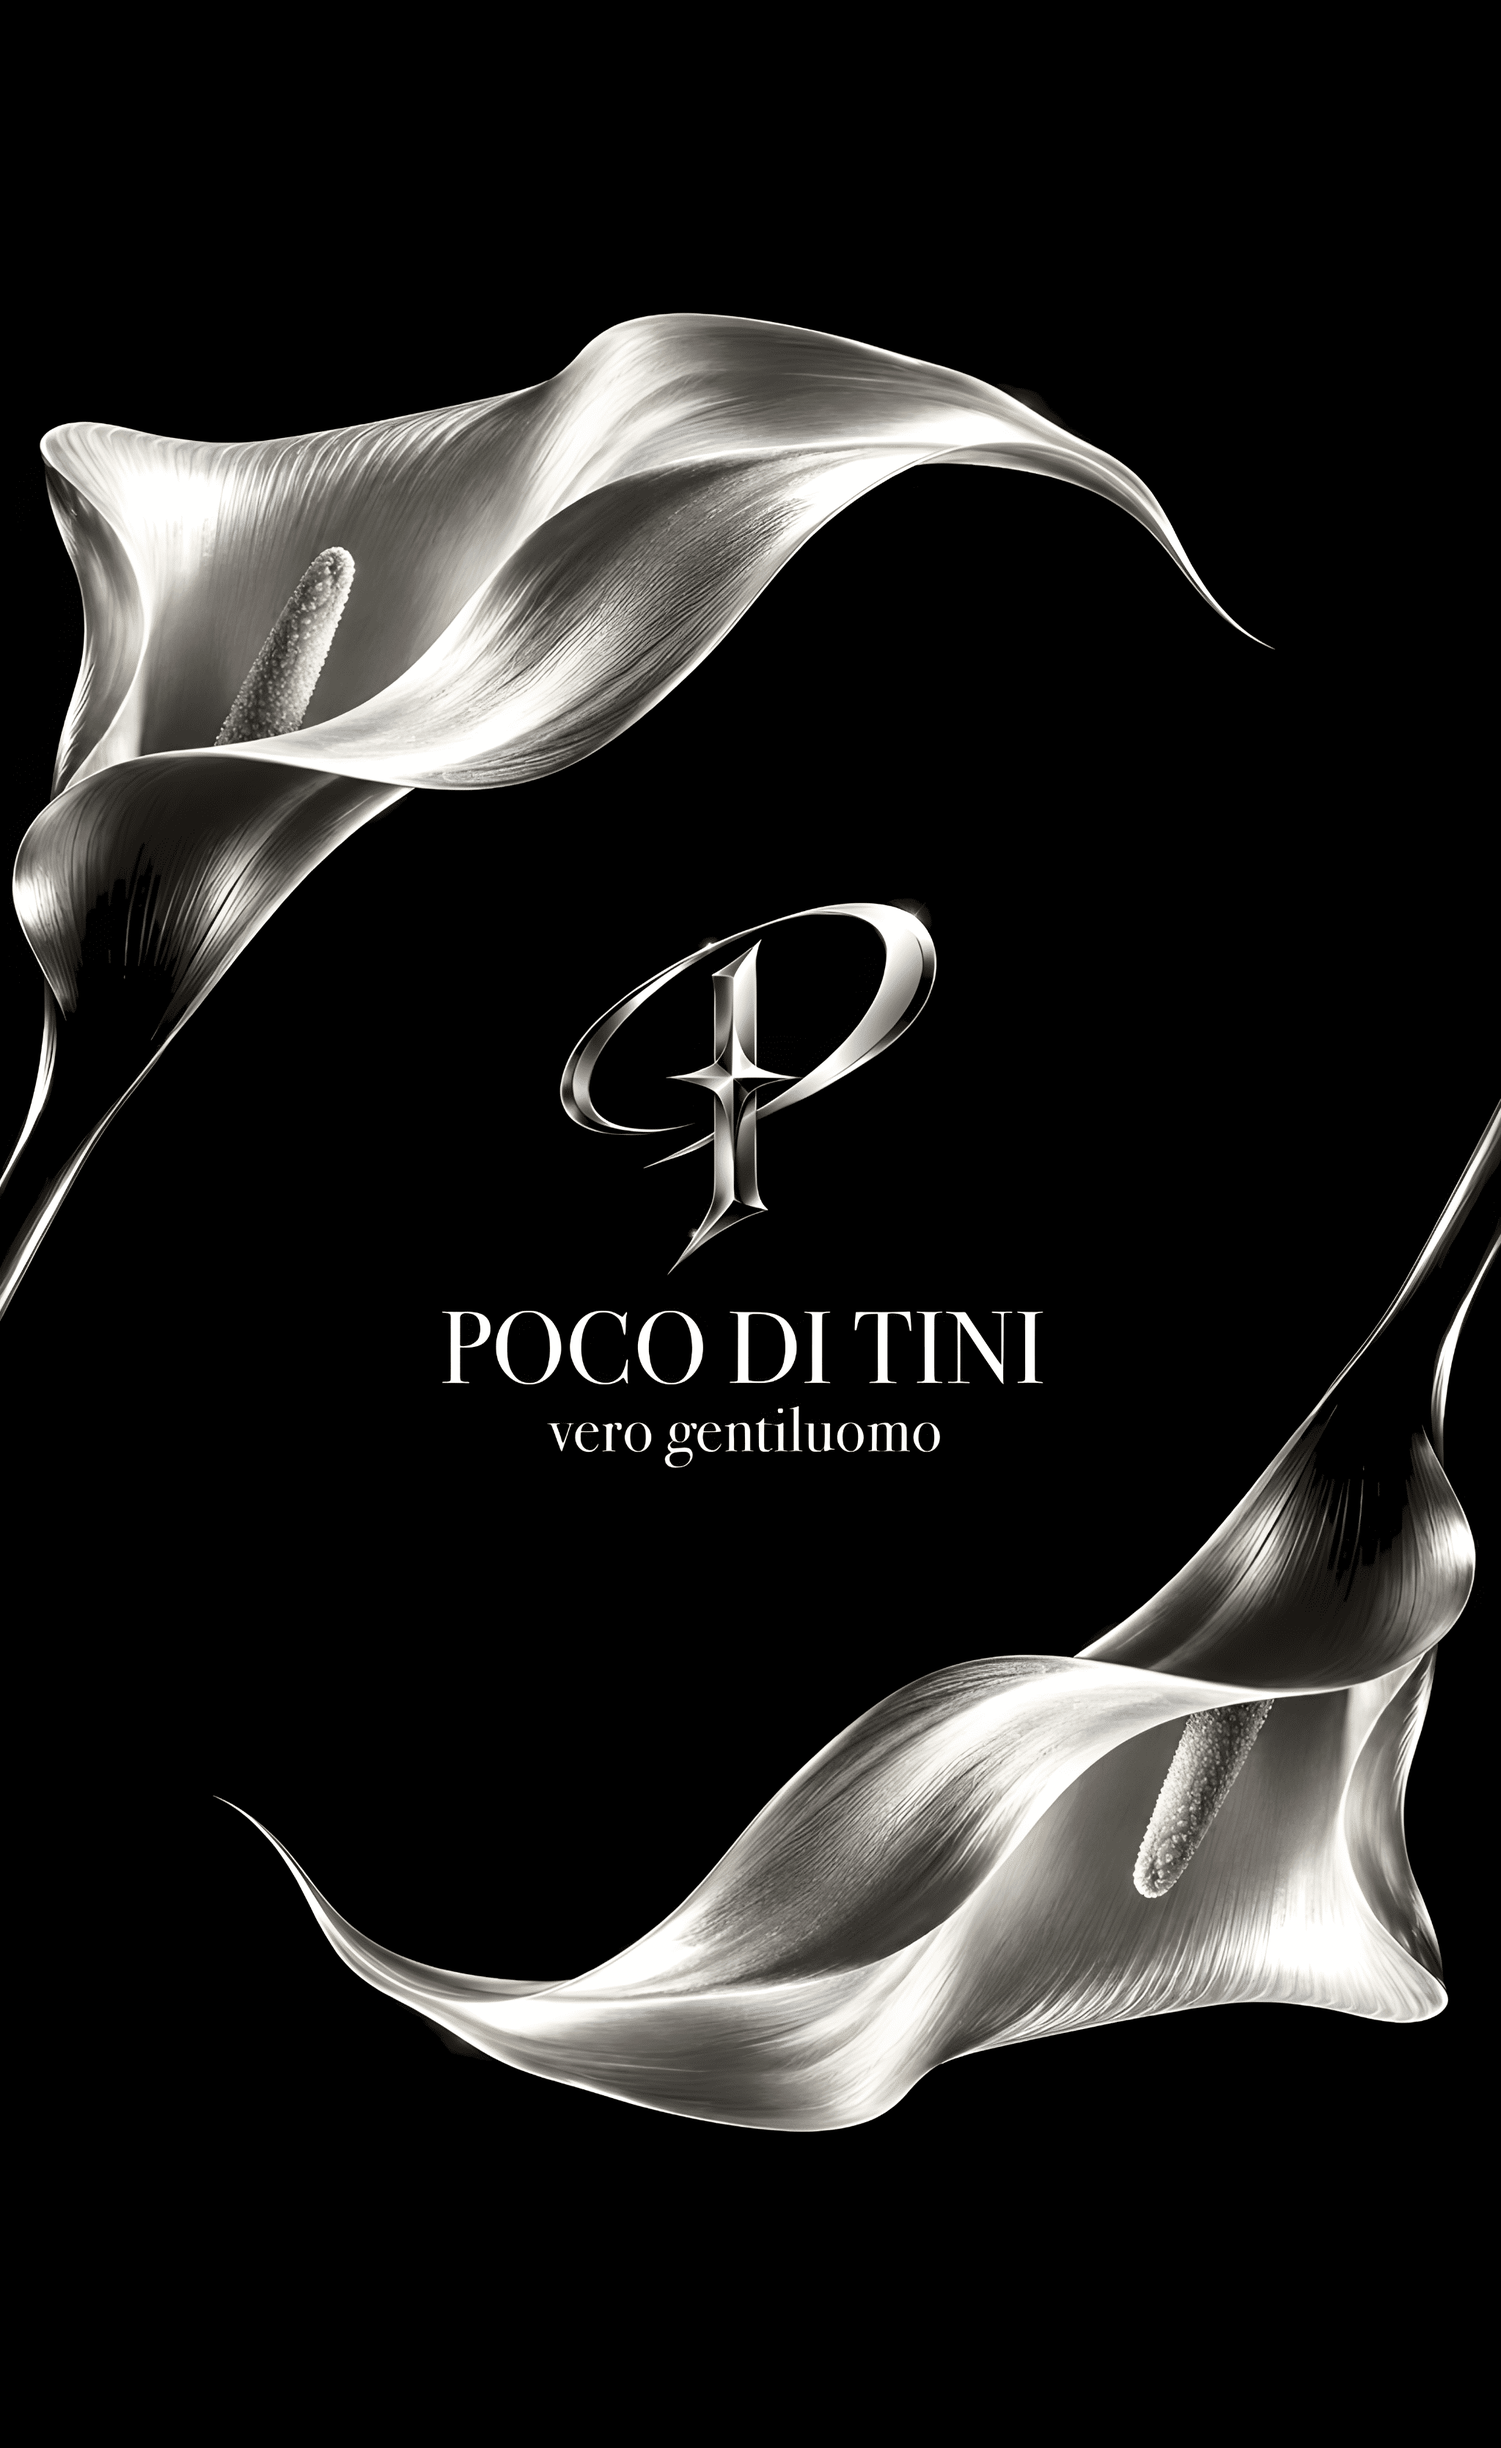
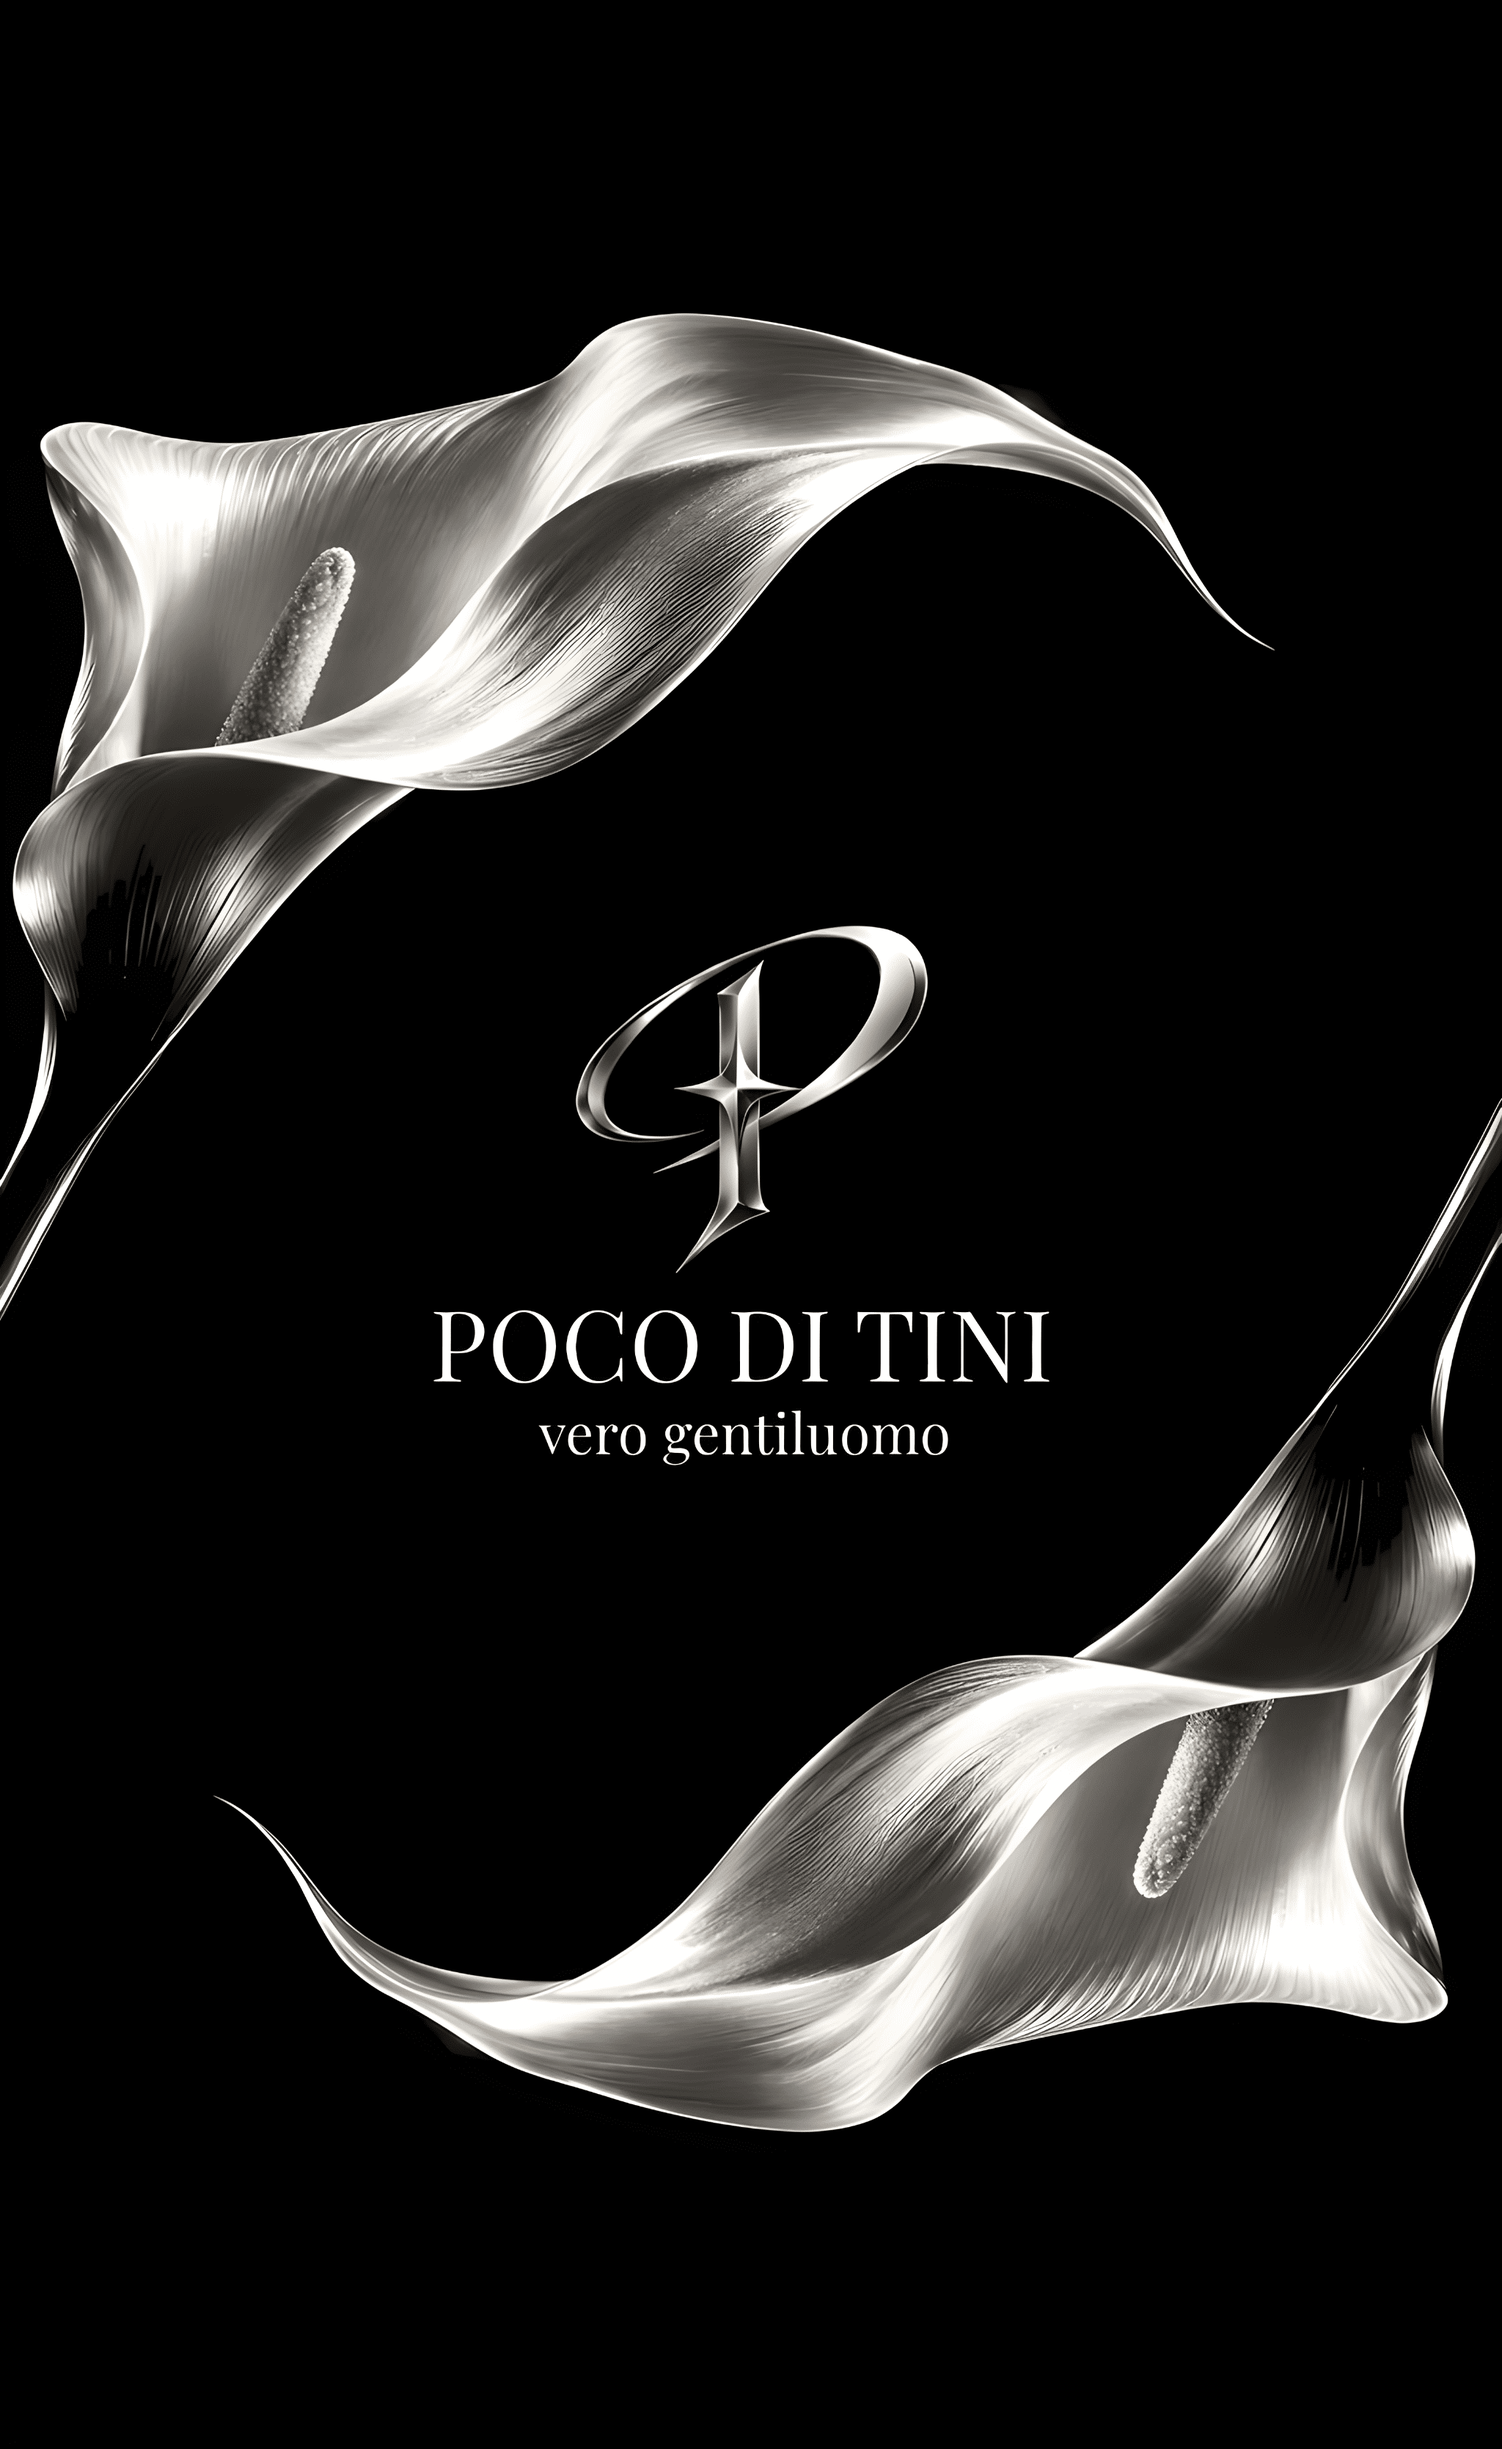
中微

diff --git a/src/data/home.ts b/src/data/home.ts
@@ -1,8 +1,8 @@
 // ホームの写真・見出し・リンク先をここで変更できます。
 export const homePanels = [
     {
-        title: 'My Profile',
-        description: '何が嫌いかより何が好きかで自分を語ろう．',
+        title: 'Profile',
+        description: '何が嫌いかより何が好きかで自分を語ろう',
         image: '/images/profile1.png',
         alt: 'オーロラが降り注ぐ幻想的な風景',
         href: '/about/',
@@ -24,8 +24,8 @@ export const homePanels = [
             },
         ],
     },
-    { title: 'POCO DI TINI', description: '着たいものを，かたちに．', image: '/images/fashion.png', alt: 'pcco-di-tini', href: '/fashion/', linkLabel: 'コレクションを見る', kind: 'fashion' },
-    { title: 'Music', description: '気持ちを，音にのせて．', image: '/images/music.jpg', alt: '窓辺のレコードプレーヤー', href: '/music/', linkLabel: '音楽を聴く', kind: 'music' },
-    { title: 'Blog', description: '何気ない日々を，少しずつ．', image: '/images/blog.webp', alt: '光が差し込む机の上のノートとコーヒー', href: '/blog/', linkLabel: 'ブログを読む', kind: 'blog' },
+    { title: 'POCO DI TINI', description: 'オリジナルのファッションデザイン', image: '/images/fashion.png', alt: 'pcco-di-tini', href: '/fashion/', linkLabel: 'コレクションを見る', kind: 'fashion' },
+    { title: 'Music', description: '洋楽 & Instrumental', image: '/images/music.jpg', alt: '窓辺のレコードプレーヤー', href: '/music/', linkLabel: '音楽を聴く', kind: 'music' },
+    { title: 'Blog', description: 'サイト制作の進捗報告や思い出など', image: '/images/blog.webp', alt: '光が差し込む机の上のノートとコーヒー', href: '/blog/', linkLabel: 'ブログを読む', kind: 'blog' },
 ];
 

diff --git a/src/styles/global.css b/src/styles/global.css
@@ -1201,7 +1201,21 @@ html {
 
 /* スマホ：スクロール後の固定ナビの間隔 */
 @media (max-width: 700px) {
-    #site-shell .site-header .navigation-anchor > #main-menu.is-pinned {
+    #site-shell .site-header .navigation-anchor>#main-menu.is-pinned {
         gap: 20px;
     }
+}
+
+/* ヘッダーの「IN THE SKY」 */
+.site-header .wordmark {
+    font-family: "Playfair Display", serif;
+    font-weight: 400;
+    font-style: normal;
+}
+
+/* ホームの画像上の「My Profile」「Music」など */
+.home-gallery .panel-copy h2 {
+    font-family: "Playfair Display", serif;
+    font-weight: 400;
+    font-style: normal;
 }

diff --git a/src/blog/post-7.md b/src/blog/post-7.md
@@ -14,3 +14,7 @@ tags: ["アップデート"]
 1. **お知らせボタン** : ヘッダーの右の方(画面の右上)にベルのマークがまさにお知らせボタンです．このサイトはブログだけでなく，MusicやプロフィールページのFavoritesなど複数のページで新投稿をするので，何が追加されたかを一発で知ることが出来るようにしました．ちなみにお知らせの文章をクリックで該当のページに飛べるようにしています．あらやだ便利！
 
 2. **共有ボタン**：各ページの一番下の方に私のGithubやInstagramなどがある一番右にこのサイトを共有することが出来るボタンを追加しました．これを押せばメール，LINE，Xなど好きな手段で共有できます．このサイトを人に薦めたいなと少しでも思ってくれたら共有お願いします！
+
+3. **MUSICページの順番再生ボタン** :これまでランダム再生ボタンはありましたが，この順番再生するボタンはなぜか無かったので追加しました．新着順でこのボタンを押すと曲番号が大きい曲から再生され，古い順でこのボタンを押すと曲番号が小さい順から再生されます．
+
+4. **MUSICページの縮小&拡大表示ボタン** :虫眼鏡のマークのボタンを押せば，デフォルトの4行n列の表示から6行n列の表示に縮小表示できるようになります．これで曲数が多くなっても見やすいぞ．やった！
